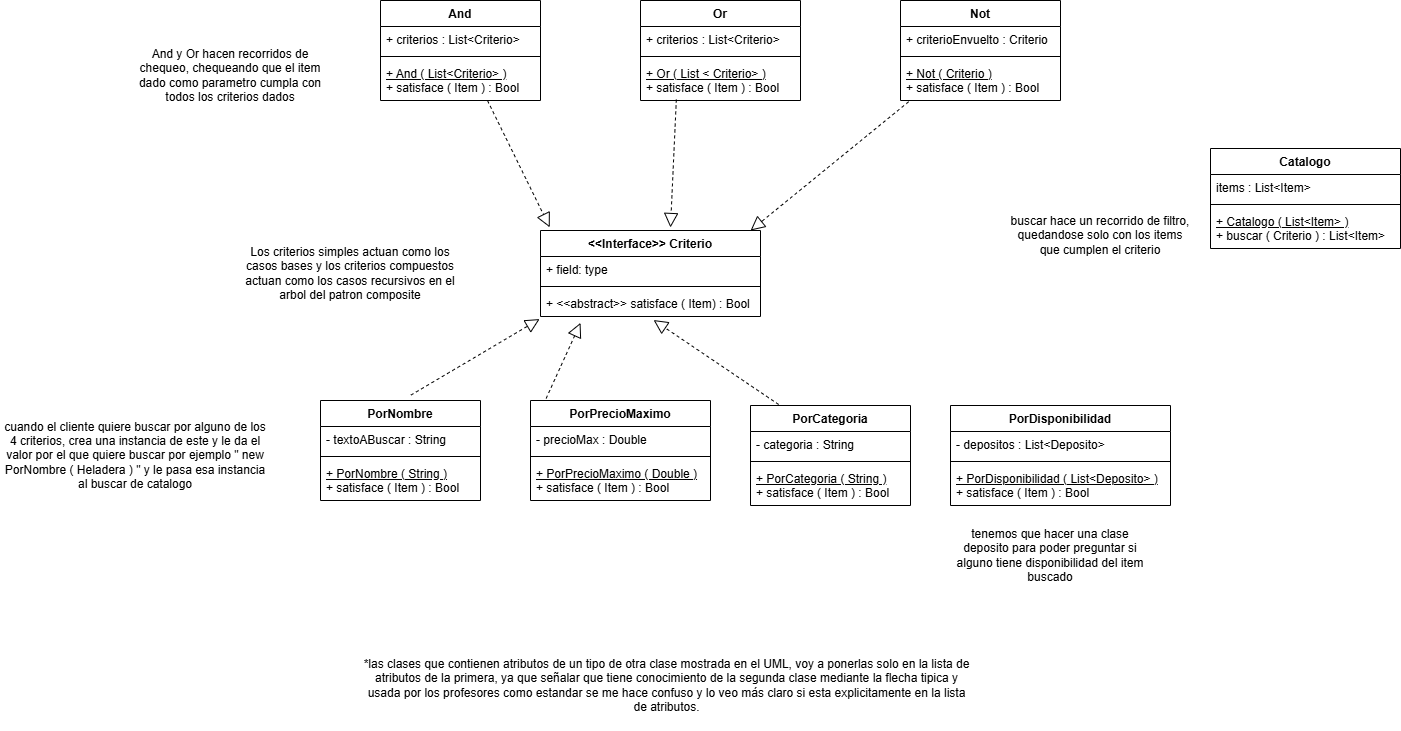
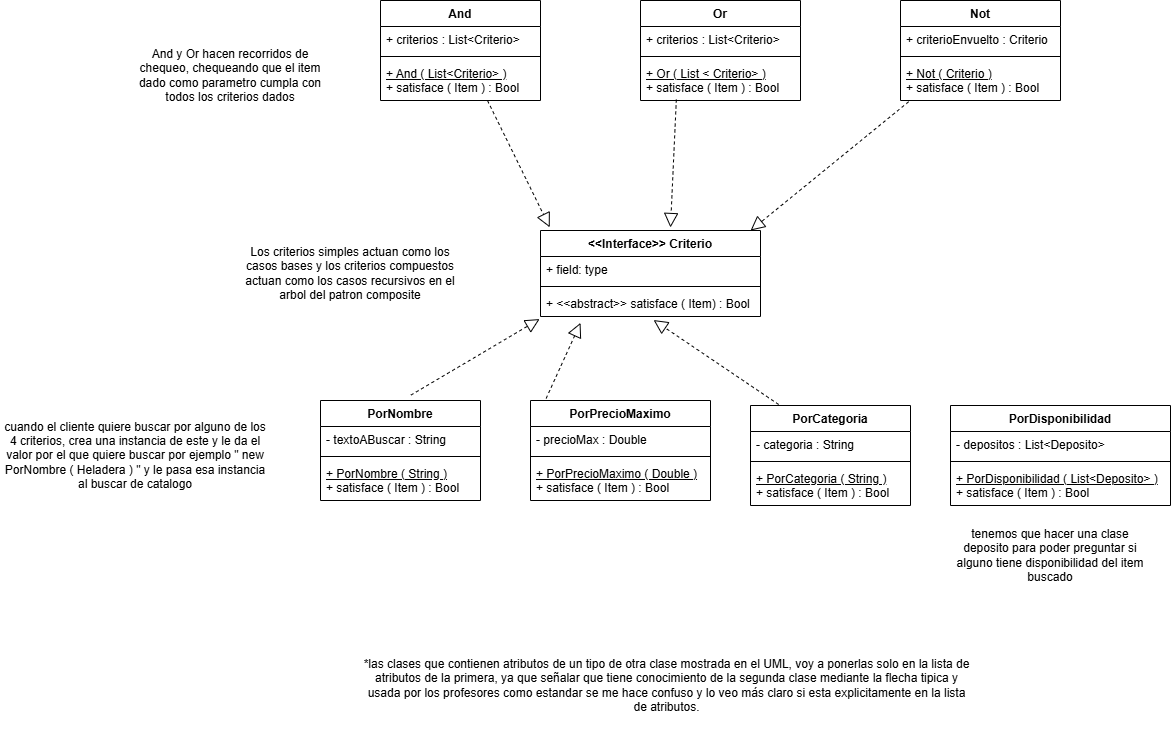
Se cambia de lugar la clase Catalogo y se cambia el nombre del paquete item a catalogo(ambas acciones hechas con refactoring) y se actualizan los UML de forma acorde a este cambio.

diff --git a/src/catalogo/Catalogo.java b/src/catalogo/Catalogo.java
@@ -1,9 +1,9 @@
-package busqueda;
+package catalogo;
 
 import java.util.List;
 import java.util.stream.Collectors;
 
-import item.Item;
+import busqueda.Criterio;
 
 
 

diff --git a/src/busqueda/PorCategoria.java b/src/busqueda/PorCategoria.java
@@ -1,7 +1,7 @@
 package busqueda;
 
-import item.Item;
-import item.Producto;
+import catalogo.Item;
+import catalogo.Producto;
 
 
 

diff --git a/src/envio/Sucursal.java b/src/envio/Sucursal.java
@@ -1,7 +1,7 @@
 package envio;
 
 import Pedido.Pedido;
-import item.Deposito;
+import catalogo.Deposito;
 
 
 

diff --git a/src/busqueda/And.java b/src/busqueda/And.java
@@ -2,7 +2,7 @@ package busqueda;
 
 import java.util.List;
 
-import item.Item;
+import catalogo.Item;
 
 
 

diff --git a/src/busqueda/Or.java b/src/busqueda/Or.java
@@ -2,7 +2,7 @@ package busqueda;
 
 import java.util.List;
 
-import item.Item;
+import catalogo.Item;
 
 
 

diff --git a/src/busqueda/PorDisponibilidad.java b/src/busqueda/PorDisponibilidad.java
@@ -2,7 +2,7 @@ package busqueda;
 
 import java.util.List;
 
-import item.Item;
+import catalogo.Item;
 
 
 

diff --git a/src/catalogo/Item.java b/src/catalogo/Item.java
@@ -1,4 +1,4 @@
-package item;
+package catalogo;
 
 import java.util.HashMap;
 import java.util.Map;

diff --git a/src/busqueda/Criterio.java b/src/busqueda/Criterio.java
@@ -1,6 +1,6 @@
 package busqueda;
 
-import item.Item;
+import catalogo.Item;
 
 
 

diff --git a/src/busqueda/Not.java b/src/busqueda/Not.java
@@ -1,6 +1,6 @@
 package busqueda;
 
-import item.Item;
+import catalogo.Item;
 
 
 

diff --git a/src/busqueda/PorNombre.java b/src/busqueda/PorNombre.java
@@ -1,6 +1,6 @@
 package busqueda;
 
-import item.Item;
+import catalogo.Item;
 
 
 

diff --git a/src/busqueda/PorPrecioMaximo.java b/src/busqueda/PorPrecioMaximo.java
@@ -1,6 +1,6 @@
 package busqueda;
 
-import item.Item;
+import catalogo.Item;
 
 
 

diff --git a/src/catalogo/Paquete.java b/src/catalogo/Paquete.java
@@ -1,4 +1,4 @@
-package item;
+package catalogo;
 
 import java.util.List;
 
